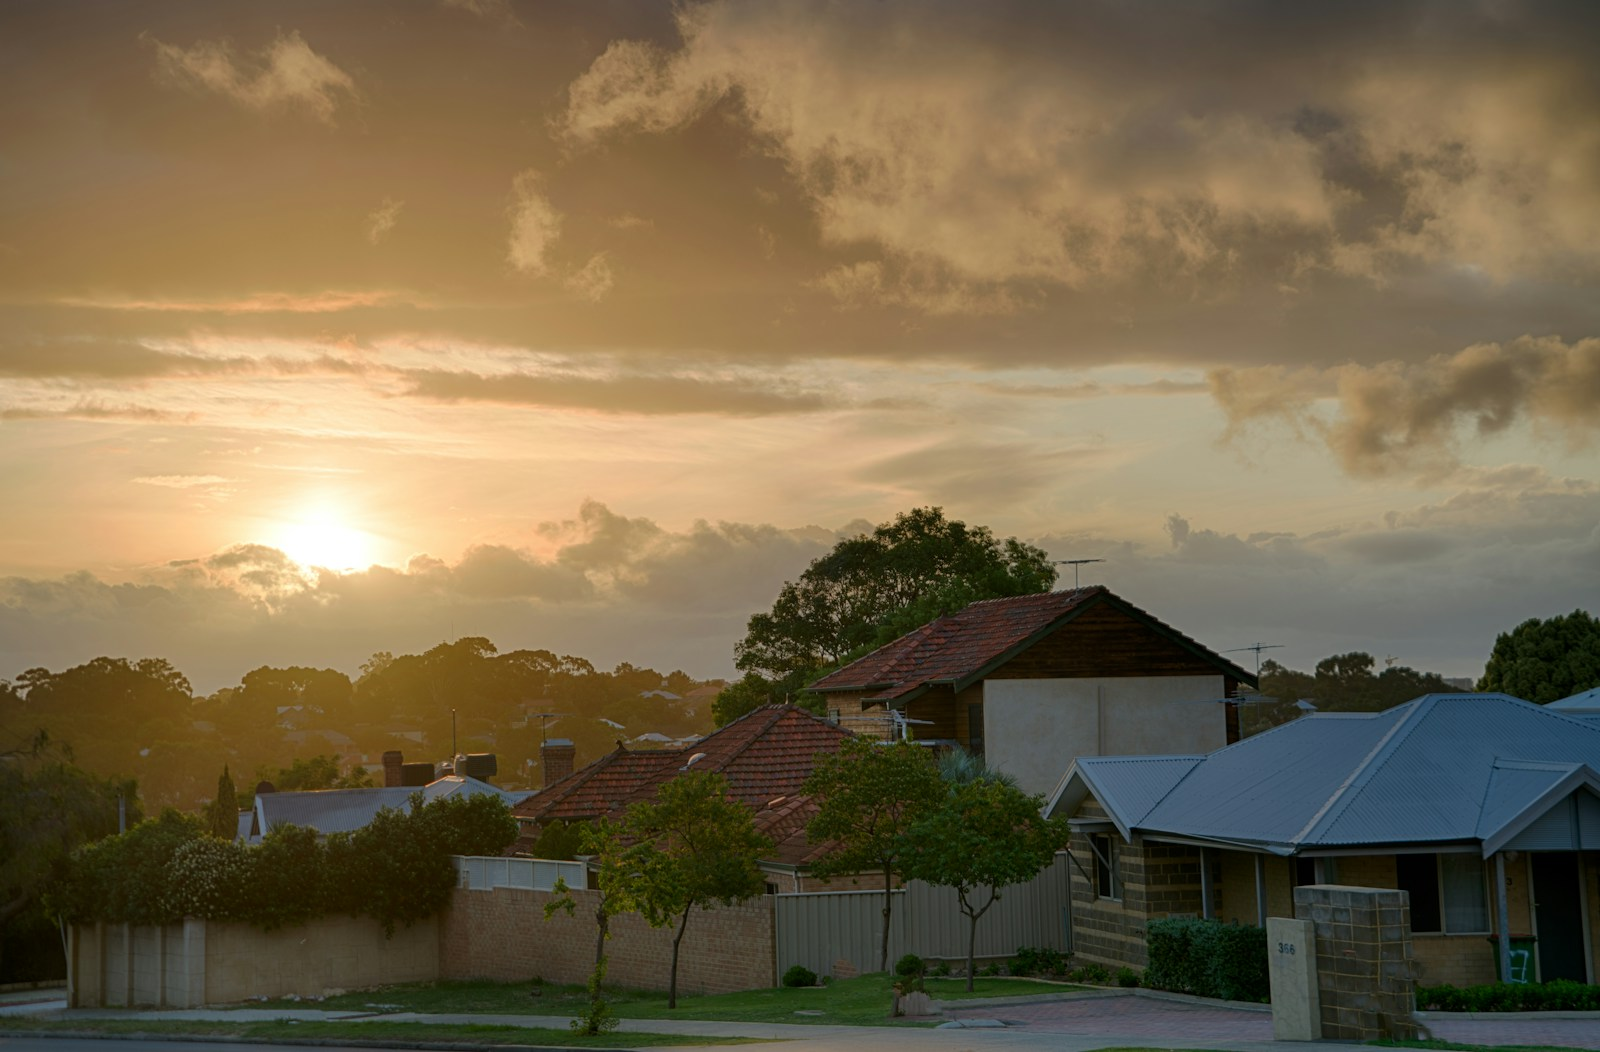
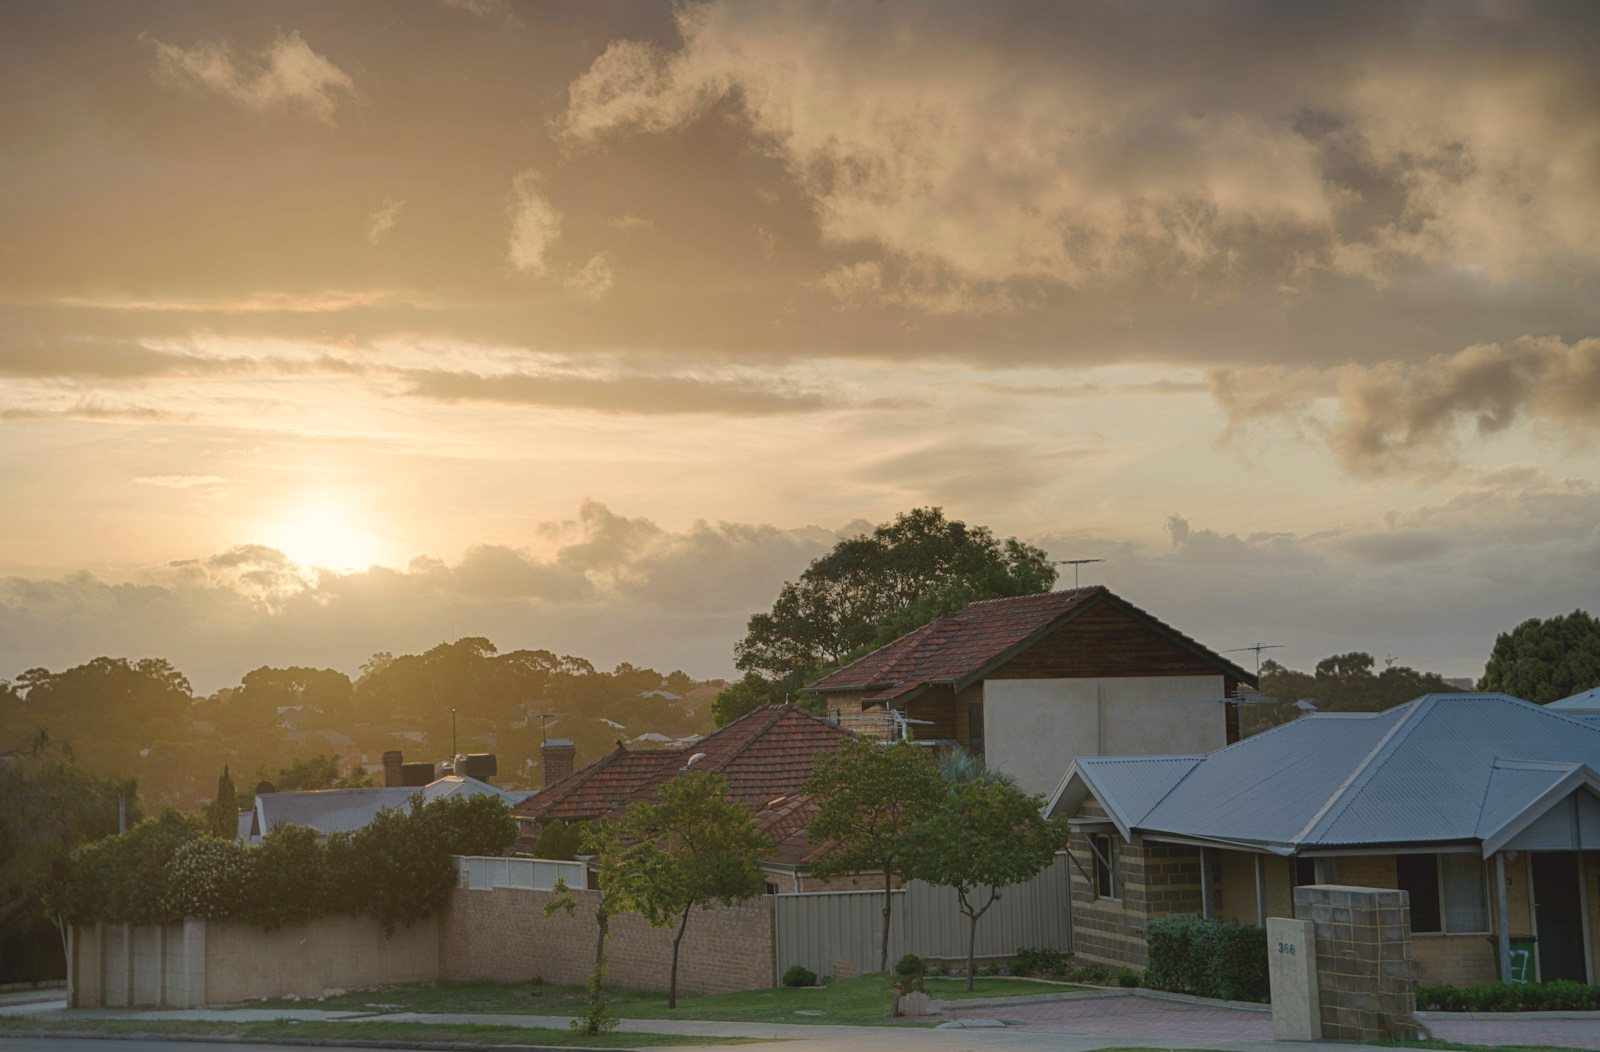
Add files via upload

diff --git a/images/README.md b/images/README.md
@@ -1,27 +1,38 @@
 # site/images/
 
-Local copies of the site's photography live here after you run
-`localise-images.command` (in the project root).
+The site's photographs. Every page loads them from this folder; nothing is
+hot-linked.
 
-Until then this folder is empty and the pages hot-link the same images
-from Unsplash, so the site works either way.
+## Rules
 
-## Image map (Unsplash ID -> local file -> where it's used)
+- Local Australian (Sydney/NSW) imagery only. No text, logos or other
+  companies' brands on photos, and no non-English writing.
+- Existing photos are never removed. Replace a file with an improved version
+  of the same name and shape, and keep the original in `_archive/`.
+- Every photo carries the site's colour grade: warm, soft Sydney light
+  (gently muted colour, warm highlights, shadows lifted towards ink,
+  highlights rolled off towards paper). Apply the same grade to any new photo.
+- Edits to a real photo (removing a logo, say) are made with Nano Banana Pro
+  on Higgsfield, using the original as the reference, so the rest of the
+  photograph stays untouched. New photos are made the same way from existing
+  photos as references, then graded.
 
-| Local file | Subject | Used on |
+## Image map (September 2026)
+
+| File | Subject | Used on |
 |---|---|---|
-| home-facade-sunset.jpg | Home facade at sunset | index hero, testimonials |
-| townhouses-brick.jpg | Modern Australian townhouses (colorbond fence, dark roofs) | about hero, blog (townhouse feasibility) |
-| townhouse-row.jpg | Contemporary architect-designed home (timber cladding) | services hero |
-| duplex-brick.jpg | Brick duplex / semi | index, blog (SEPP duplexes) |
-| house-framing.jpg | Timber roof framing (under construction) | index, blog hero |
-| builder-on-frame.jpg | Builder on timber frame | index |
-| home-renovation.jpg | Blue weatherboard Federation cottage (Sydney/NSW) | pricing hero |
-| plans-review.jpg | Reviewing plans on desk | index, about (team), blog (DA vs CDC) |
-| floor-plan.jpg | Drawing a floor plan | services, blog (FSR) |
-| architect-drafting.jpg | Architect drafting | index (expertise) |
-| aerial-estate.jpg | Aerial of new estate | services (feasibility), blog (R2 zoning) |
-| aerial-suburb.jpg | Aerial suburban rows | contact, blog (buying a site) |
+| home-facade-sunset.jpg | Suburban homes at sunset | index hero, contact |
+| townhouses-brick.jpg | New estate townhouses | about hero, blog and hub (FSR), testimonials |
+| townhouse-row.jpg | Contemporary timber-clad home | services hero |
+| duplex-brick.jpg | Brick semi and neighbours | index, blog and hub (townhouse case study), testimonials |
+| house-framing.jpg | Timber roof trusses | index |
+| builder-on-frame.jpg | Builder on a timber frame | spare |
+| home-renovation.jpg | Weatherboard Federation cottage | pricing hero, testimonials |
+| plans-review.jpg | Reviewing plans at a table (logos removed) | index, about, blog and hub, how we work (share image) |
+| floor-plan.jpg | Drawing a floor plan (ruler brand removed) | services, blog, planning dictionary (share image) |
+| architect-drafting.jpg | Architect sketching (shirt logo and caption removed) | blog and hub |
+| aerial-estate.jpg | Aerial of a new estate | services, blog and hub (Housing SEPP) |
+| aerial-suburb.jpg | Aerial of suburban streets | blog and hub (buying a site), testimonials |
 
-All are free-license (Unsplash). Swap any file for your own photo of the
-same shape (landscape) and the site picks it up with no code change.
+The graded and edited versions replaced the originals on 29 September 2026;
+the originals are in `_archive/pre-photo-grade-2026-09-29/images/`.
